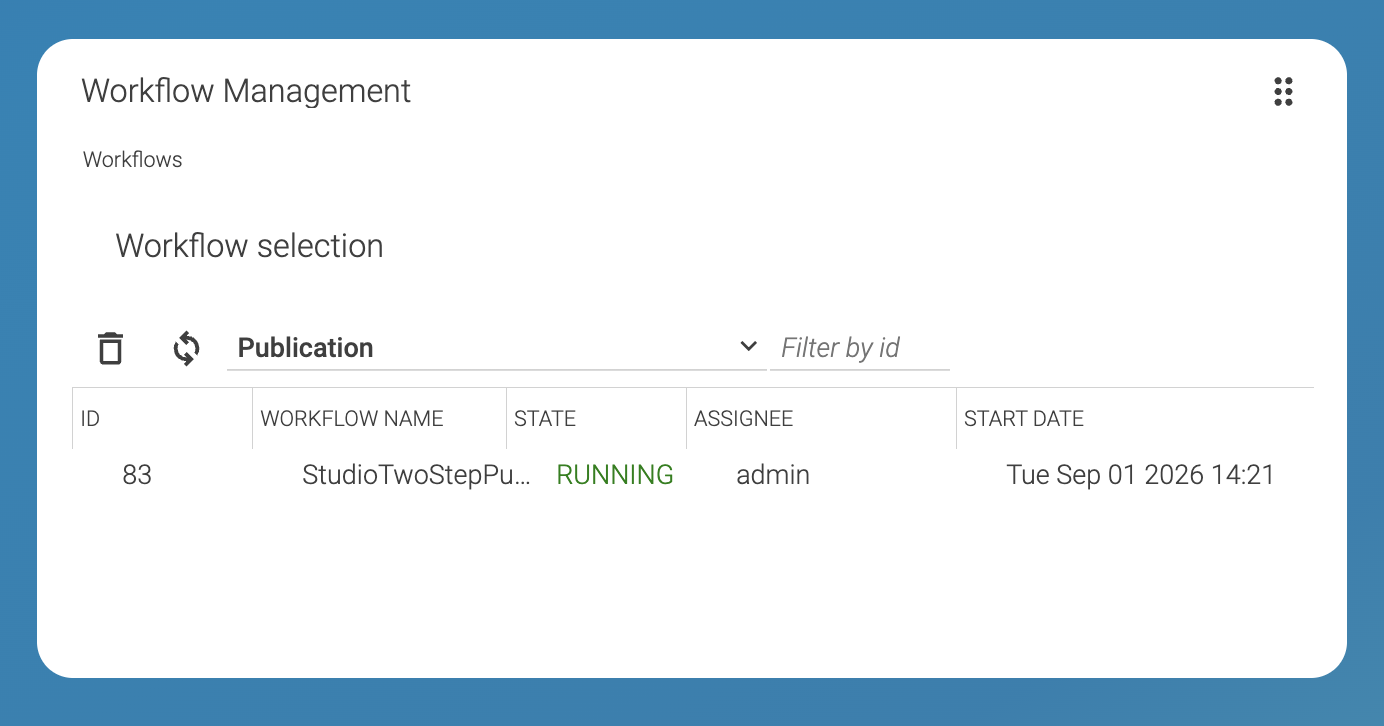
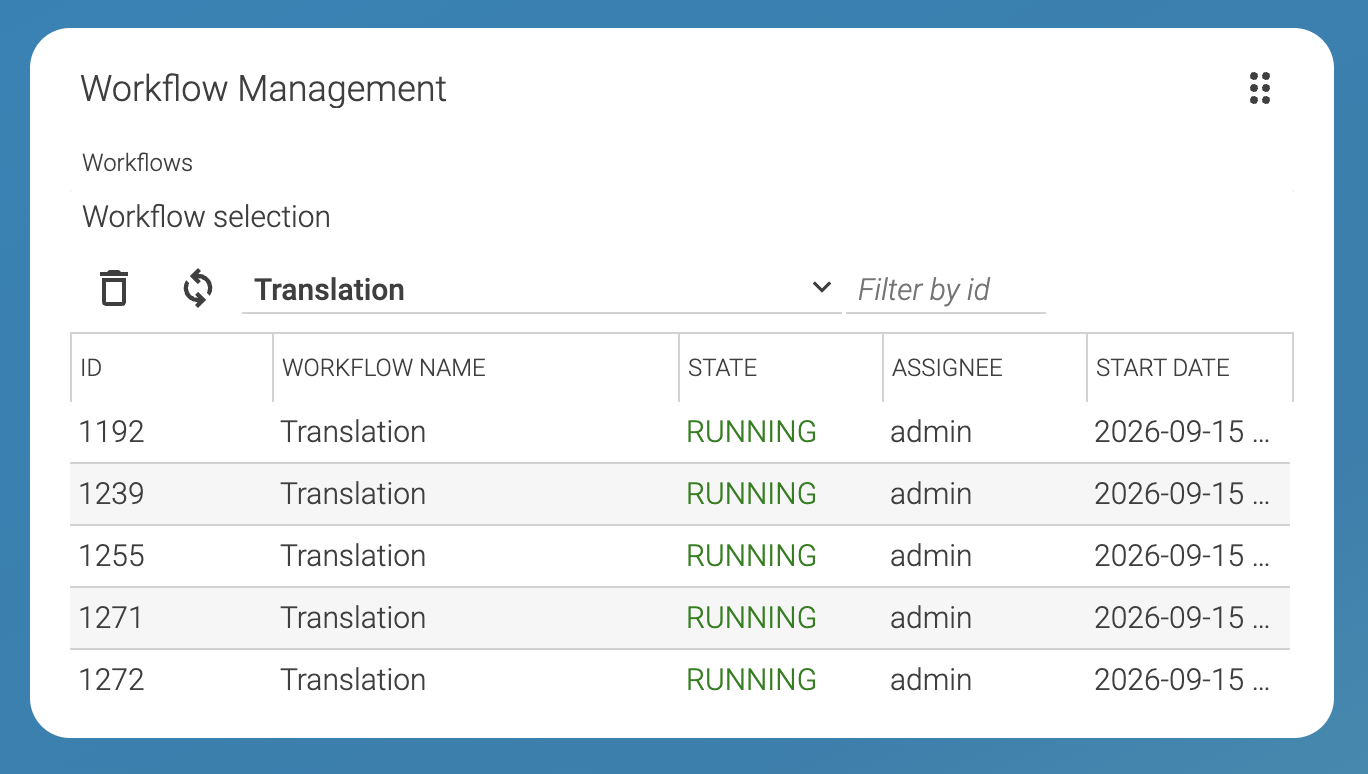
Added and changed documentation

diff --git a/studio-client/apps/main/coremedia-workflow-manager/src/workflow/WorkflowTypePanel.ts b/studio-client/apps/main/coremedia-workflow-manager/src/workflow/WorkflowTypePanel.ts
@@ -34,10 +34,9 @@ export default class WorkflowTypePanel extends GridPanel {
           categories: [],
           title: "genericPanel",
           flex: 1,
-          height: 400,
           scrollable: true,
           multiSelect: true,
-          ui: PanelSkin.CARD_200.getSkin(),
+          ui: PanelSkin.CARD.getSkin(),
           tbar: Config(Toolbar, {
             items: [
               Config(IconButton, {
@@ -107,13 +106,12 @@ export default class WorkflowTypePanel extends GridPanel {
               height: "50",
               dataIndex: "id",
               text: "ID",
-              width: 100,
-              flex: 0,
+              flex: 1,
             },
             {
               dataIndex: "name",
               text: "Workflow Name",
-              flex: 1,
+              flex: 2,
               sortable: true,
             },
             {
@@ -123,20 +121,20 @@ export default class WorkflowTypePanel extends GridPanel {
             {
               dataIndex: "state",
               text: "State",
-              width: 100,
+              flex: 1,
               sortable: true,
               renderer: this.renderState.bind(this),
             },
             {
               dataIndex: "owner",
               text: "Assignee",
-              width: 150,
+              flex: 1,
               sortable: true,
             },
             {
               dataIndex: "startDate",
               text: "Start Date",
-              width: 200,
+              flex: 1,
               sortable: true,
               renderer: this.renderDate.bind(this),
             },
@@ -253,7 +251,7 @@ export default class WorkflowTypePanel extends GridPanel {
       "id": process.getId().replace("coremedia:///cap/process/", ""),
       "name": process.getDefinition().getName(),
       "state": process.getProcessState().name,
-      "startDate": process.getCreationDate().toString(),
+      "startDate": process.getCreationDate(),
       "owner": process.getOwner().getName(),
       "process": process
     }

diff --git a/studio-client/apps/main/coremedia-workflow-manager/src/WorkflowManagerStudioPlugin.ts b/studio-client/apps/main/coremedia-workflow-manager/src/WorkflowManagerStudioPlugin.ts
@@ -28,7 +28,7 @@ export default class WorkflowManagerStudioPlugin extends StudioPlugin {
                       id:"workflowListGridTabID",
                       itemId: "workflowListGridTab",
                       title: "Workflows",
-                      height:"100%",
+                      height:"600",
                       closable: true,
                     }),
                   }),

diff --git a/documentation/editorial-quick-start.md b/documentation/editorial-quick-start.md
@@ -23,3 +23,7 @@ The Picture below is showing the implementation as Panel
 And as second, the dashboad.
 ![Image1: Studio appearance as dashboard widget](img/wmdashboard.png)
 
+This plugin is offering the ability to delete workflows. Per design, multi-selection is possible. On the upper left,
+two buttons are displayed. The first button is to start the deletion, the second for updating the list of running processes
+per workflow, or workflow category. 
+Next to the refresh button, the workflow selection (Combobox) is rendered, and at last, a filter field for a given id.
